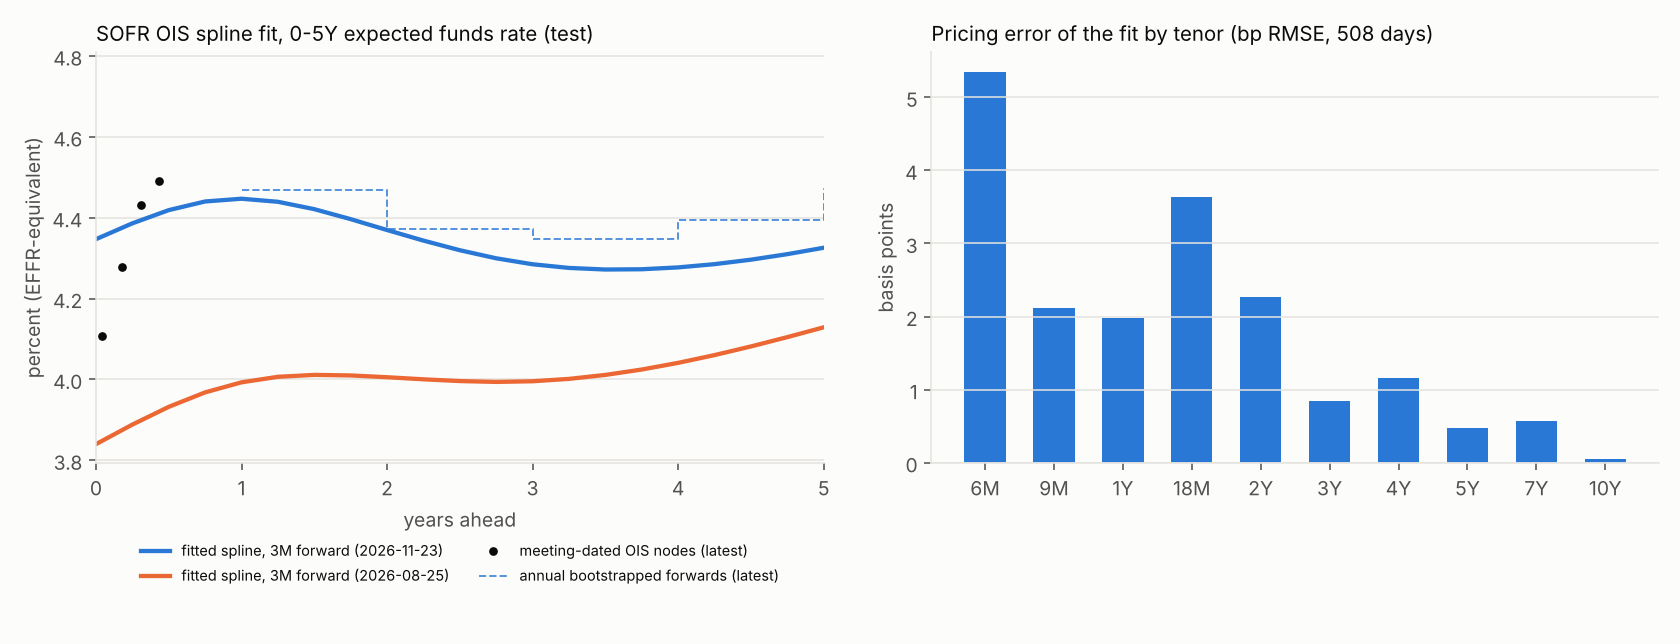
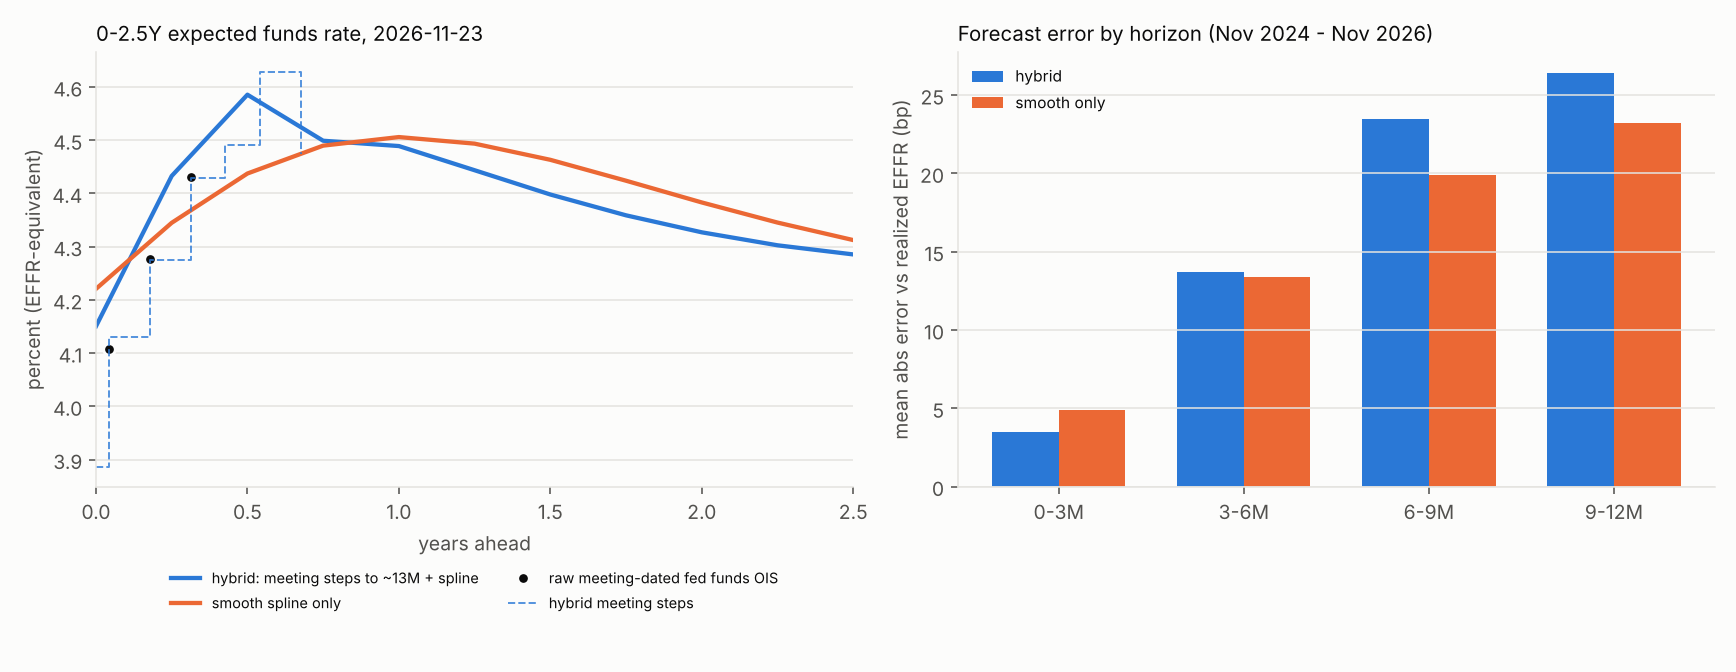
Fit hybrid meeting-step + spline curve using near-term swaps
Adds 1M/3M par tenors and a hybrid model: one step level per FOMC meeting for
~13 months fit to meeting-dated OIS, spot par swaps and published EFFR, joined
to the smooth spline. Reproduces meeting-dated OIS to ~1bp; compared to
spline-only it helps 0-3M but not 6-12M versus realized EFFR.

Claude-Session: https://claude.ai/code/session_0188nQGZ4YD7DmkHT2cWEdz3

diff --git a/scripts/08_fit_dtcc_ois_spline.py b/scripts/08_fit_dtcc_ois_spline.py
@@ -1,5 +1,5 @@
 """
-Fit a smooth SOFR OIS forward curve (penalized cubic B-spline) to the daily
+Fit a forward curve (meeting steps near term + penalized cubic B-spline beyond) to the daily
 spot-starting SOFR OIS par rates built by 07_build_dtcc_ois_curves.py.
 
 Why: the par swaps are deep from 6M to 10Y, but the forward rates implied by
@@ -35,7 +35,7 @@ import pandas as pd
 from scipy.interpolate import BSpline
 from scipy.optimize import least_squares
 
-TENOR_YRS = {"6M": 0.5, "9M": 0.75, "1Y": 1, "18M": 1.5, "2Y": 2, "3Y": 3, "4Y": 4,
+TENOR_YRS = {"1M": 1 / 12, "3M": 0.25, "6M": 0.5, "9M": 0.75, "1Y": 1, "18M": 1.5, "2Y": 2, "3Y": 3, "4Y": 4,
              "5Y": 5, "7Y": 7, "10Y": 10}
 DELTA = 365 / 360
 TMAX = 10.0
@@ -156,7 +156,7 @@ def curve_table(coefs, basis_by_date, max_h):
         for h in np.arange(0, max_h + 1e-9, 0.25):
             i, j = BASIS.idx(h), BASIS.idx(h + 0.25)
             f3 = (D[i] / D[j] - 1) / (DELTA * 0.25) * 100
-            rows.append({"date": d, "horizon_yrs": round(h, 2), "inst_fwd_pct": f[i] * 100,
+            rows.append({"date": d, "horizon_yrs": round(h, 2), "inst_fwd_pct": float(360 * np.expm1(f[i] / 365) * 100),
                          "fwd3m_sofr_pct": f3, "fwd3m_effr_equiv_pct": f3 - b})
     return pd.DataFrame(rows)
 
@@ -242,14 +242,285 @@ def report(par, coefs, diag, data_dir, lam):
         print(f"  lam={lam2:g}: RMSE {dg.rmse_bp.mean():.2f} | diff vs chosen {dif}")
 
 
+# --------------------------------------------------------------------------
+# Hybrid model: step function (one level per FOMC meeting) for the first
+# ~13 months, joined to the smooth spline beyond. Fits meeting-dated swaps,
+# spot-starting par swaps (1M-10Y) and the published EFFR together.
+# --------------------------------------------------------------------------
+HDAYS = 3650               # daily grid out to 10Y
+TCUT = 400                 # days: steps before, spline from here on
+SPL_INTERIOR = [1.5, 2, 3, 4, 5, 6, 8]
+SPL_LO = 1.0
+
+
+class HBasis:
+    def __init__(self):
+        t = np.concatenate([[SPL_LO] * (DEGREE + 1), SPL_INTERIOR, [TMAX] * (DEGREE + 1)])
+        self.n = len(t) - DEGREE - 1
+        eye = np.eye(self.n)
+        yrs = (np.arange(HDAYS) + 0.5) / 365
+        self.B = np.nan_to_num(np.column_stack([
+            BSpline(t, eye[j], DEGREE, extrapolate=False)(yrs) for j in range(self.n)]))
+        pen_days = np.arange(TCUT, HDAYS, 10)
+        pyrs = (pen_days + 0.5) / 365
+        self.pen_days = pen_days
+        self.B2 = np.nan_to_num(np.column_stack([
+            BSpline(t, eye[j], DEGREE, extrapolate=False).derivative(2)(pyrs)
+            for j in range(self.n)]))
+        self.Bcut = self.B[TCUT - 1]   # spline value at the join
+
+
+HB = HBasis()
+
+
+def design(meet_off):
+    """Cumulative-integral design matrix CM (HDAYS+1 x p): F(day) = CM @ theta.
+    Columns: one step level per piece [edges[k], edges[k+1]) then spline coefs."""
+    edges = [0] + list(meet_off) + [TCUT]
+    K = len(edges) - 1
+    M = np.zeros((HDAYS, K + HB.n))
+    for k in range(K):
+        M[edges[k]:edges[k + 1], k] = 1.0
+    M[TCUT:, K:] = HB.B[TCUT:]
+    CM = np.vstack([np.zeros((1, M.shape[1])), np.cumsum(M, axis=0) / 365])
+    return CM, K
+
+
+def pay_days(T_days):
+    if T_days <= 365:
+        return [T_days]
+    ts = list(range(365, T_days - 1, 365))
+    if ts[-1] != T_days:
+        ts.append(T_days)
+    return ts
+
+
+def h_sigma(n, window):
+    n_eff = min(n, 25)
+    var = 1.0 + (6.0 / np.sqrt(n_eff)) ** 2 + (9.0 if window == "00:00-24:00" else 0.0)
+    return float(np.sqrt(var))
+
+
+def build_obs(date, par_g, fwd_g, basis, effr_val):
+    """Observation list in SOFR space. kinds: ('par', T_days, rate, sigma),
+    ('int', a_days, b_days, rate, sigma)."""
+    obs = []
+    for _, r in par_g.iterrows():
+        T = int(round(TENOR_YRS[r["tenor"]] * 365))
+        obs.append(("par", T, r["median"] / 100, h_sigma(r["n"], r["window"])))
+    for _, r in fwd_g.iterrows():
+        a = (r["start"] - date).days
+        b = (r["end"] - date).days
+        if a < 0 or b > HDAYS or b <= a:
+            continue
+        rate = r["median"] + (basis if r["product"] == "ffr" else 0.0)
+        obs.append(("int", a, b, rate / 100, h_sigma(r["n"], r["window"])))
+    if effr_val is not None and np.isfinite(effr_val) and np.isfinite(basis):
+        obs.append(("int", 0, 3, (effr_val + basis) / 100, 2.0))
+    return obs
+
+
+def model_obs(D, o):
+    if o[0] == "par":
+        T = o[1]
+        prev, ann = 0, 0.0
+        for t in pay_days(T):
+            ann += DELTA * (t - prev) / 365 * D[t]
+            prev = t
+        return (1 - D[T]) / ann
+    a, b = o[1], o[2]
+    return (D[a] / D[b] - 1) / (DELTA * (b - a) / 365)
+
+
+def fit_day_hybrid(date, obs, meet_off, lam, step_sigma_bp, theta0=None):
+    CM, K = design(meet_off)
+    sig = np.array([o[-1] for o in obs])
+    y = np.array([o[-2] for o in obs])
+    pen_w = np.sqrt(lam * 10 / 365) * 1e4 * 1e-1
+
+    def predict(th):
+        D = np.exp(-(CM @ th))
+        return np.array([model_obs(D, o) for o in obs])
+
+    def resid(th):
+        r = (predict(th) - y) * 1e4 / sig
+        steps = th[:K]
+        dstep = np.diff(steps) * 1e4 / step_sigma_bp
+        cont = np.array([(steps[-1] - HB.Bcut @ th[K:]) * 1e4 / 1.0])
+        pen = pen_w * (HB.B2 @ th[K:])
+        return np.concatenate([r, dstep, cont, pen])
+
+    th0 = np.full(K + HB.n, float(np.mean(y))) if theta0 is None else theta0
+    sol = least_squares(resid, th0, method="trf", x_scale=0.01)
+    res_bp = (predict(sol.x) - y) * 1e4
+    return sol.x, res_bp, CM, K
+
+
+def fit_all_hybrid(par, fwd, basis_by_date, effr, meetings, lam, step_sigma_bp,
+                   only_dates=None):
+    fwd = fwd[fwd["kind"] == "meeting"]
+    out, diag = {}, []
+    pg = {d: g for d, g in par[par["tenor"].isin(TENOR_YRS)].groupby("date")}
+    fg = {d: g for d, g in fwd.groupby("date")}
+    prev = None
+    for d in sorted(pg):
+        if only_dates is not None and d not in only_dates:
+            continue
+        g = pg[d]
+        have = set(g["tenor"])
+        if len(g) < 5 or not ({"5Y", "7Y"} & have) or "10Y" not in have:
+            continue
+        b = basis_by_date.get(d, np.nan)
+        if not np.isfinite(b):
+            continue
+        meet_off = [(m - d).days for m in meetings if 0 < (m - d).days < TCUT]
+        ev = effr.reindex(effr.index.union([d])).ffill().get(d, np.nan) if effr is not None else None
+        obs = build_obs(d, g, fg.get(d, fg_empty(fwd)), b, ev)
+        th0 = prev if prev is not None and len(prev) == len(meet_off) + 1 + HB.n else None
+        th, res, CM, K = fit_day_hybrid(d, obs, meet_off, lam, step_sigma_bp, th0)
+        prev = th
+        out[d] = (th, CM, K, meet_off, b)
+        kinds = [o[0] for o in obs]
+        pr = [r for r, k in zip(res, kinds) if k == "par"]
+        ir = [r for r, k in zip(res, kinds) if k == "int"]
+        diag.append({"date": d, "n_par": len(pr), "n_int": len(ir),
+                     "rmse_par_bp": float(np.sqrt(np.mean(np.square(pr)))) if pr else np.nan,
+                     "rmse_int_bp": float(np.sqrt(np.mean(np.square(ir)))) if ir else np.nan})
+    return out, pd.DataFrame(diag)
+
+
+def fg_empty(fwd):
+    return fwd.iloc[0:0]
+
+
+def h_interval(entry, a_days, b_days):
+    th, CM, K, _, basis = entry
+    D = np.exp(-(CM @ th))
+    return ((D[a_days] / D[b_days] - 1) / (DELTA * (b_days - a_days) / 365)) * 100 - basis
+
+
+def h_curve_table(fits, max_h):
+    rows = []
+    for d, entry in fits.items():
+        for h in np.arange(0, max_h + 1e-9, 0.25):
+            a, b = int(round(h * 365)), int(round((h + 0.25) * 365))
+            if b > HDAYS:
+                continue
+            rows.append({"date": d, "horizon_yrs": round(h, 2),
+                         "fwd3m_effr_equiv_pct": h_interval(entry, a, b)})
+    return pd.DataFrame(rows)
+
+
+def daily_act360(f):
+    """Continuously compounded rate (365-day year) -> one-day act/360 rate,
+    the quoting convention of EFFR/SOFR (decimal in, decimal out)."""
+    return 360 * np.expm1(np.asarray(f) / 365)
+
+
+def h_steps_table(fits):
+    rows = []
+    for d, (th, CM, K, meet_off, basis) in fits.items():
+        edges = [0] + list(meet_off)
+        for k in range(K):
+            rows.append({"date": d, "step": k, "from": d + pd.Timedelta(days=edges[k]),
+                         "level_effr_equiv_pct": daily_act360(th[k]) * 100 - basis})
+    return pd.DataFrame(rows)
+
+
+def load_inputs(dd):
+    par = pd.read_csv(dd / "dtcc_sofr_par_daily.csv", parse_dates=["date"])
+    fwd = pd.read_csv(dd / "dtcc_meeting_fwd_daily.csv", parse_dates=["date", "start", "end"])
+    path = pd.read_csv(dd / "dtcc_expected_path_daily.csv",
+                       parse_dates=["date", "node_start", "node_end"])
+    basis = path.dropna(subset=["basis"]).groupby("date")["basis"].first().to_dict()
+    meet = list(pd.read_csv(dd / "dtcc_meeting_calendar.csv",
+                            parse_dates=["meeting_date"])["meeting_date"])
+    e = pd.read_csv(dd / "fred_dff.csv")
+    e.columns = ["d", "v"]
+    e["d"] = pd.to_datetime(e["d"])
+    effr = pd.to_numeric(e["v"], errors="coerce").set_axis(e["d"]).dropna()
+    return par, fwd, path, basis, meet, effr
+
+
+def run_hybrid(args, dd):
+    par, fwd, path, basis, meet, effr = load_inputs(dd)
+    fits, diag = fit_all_hybrid(par, fwd, basis, effr, meet, args.lam, args.step_sigma)
+    if not fits:
+        raise SystemExit("no days could be fitted")
+    h_curve_table(fits, args.max_horizon).to_csv(dd / "dtcc_fitted_curve_daily.csv", index=False)
+    h_steps_table(fits).to_csv(dd / "dtcc_fitted_steps_daily.csv", index=False)
+    diag.to_csv(dd / "dtcc_fit_diagnostics_daily.csv", index=False)
+    print(f"hybrid fit: {len(fits)} days; median RMSE par {diag.rmse_par_bp.median():.2f}bp, "
+          f"meeting-dated {diag.rmse_int_bp.median():.2f}bp")
+    if args.report:
+        report_hybrid(par, fwd, path, basis, meet, effr, fits, diag, args)
+
+
+def report_hybrid(par, fwd, path, basis, meet, effr, fits, diag, args):
+    print("\n=== hybrid fit quality ===")
+    print("pricing error RMSE (bp): par median %.2f p90 %.2f | meeting-dated median %.2f p90 %.2f" % (
+        diag.rmse_par_bp.median(), diag.rmse_par_bp.quantile(.9),
+        diag.rmse_int_bp.median(), diag.rmse_int_bp.quantile(.9)))
+    # realized-EFFR test by horizon window, hybrid vs smooth-only vs raw fed funds OIS nodes
+    smooth, _ = fit_all(par, args.lam)
+    rows = []
+    wins = [(0, 91), (91, 182), (182, 273), (273, 365)]
+    for d, entry in fits.items():
+        for a, b in wins:
+            end = d + pd.Timedelta(days=b)
+            if end > effr.index.max():
+                continue
+            real = effr[(effr.index >= d + pd.Timedelta(days=a)) & (effr.index < end)].mean()
+            row = {"date": d, "win": f"{a//30}-{b//30}M",
+                   "hybrid": h_interval(entry, a, b) - real}
+            if d in smooth:
+                row["smooth"] = interval_rate(smooth[d], a / 365, b / 365) - basis.get(d, np.nan) - real
+            rows.append(row)
+    r = pd.DataFrame(rows)
+    # raw FF OIS meeting nodes: nearest-interval comparison not window aligned; skip
+    print("\nerror vs realized mean EFFR over the window (implied - realized, pct pts -> bp)")
+    g = r.groupby("win")[["hybrid", "smooth"]]
+    tab = pd.concat({"bias_bp": g.mean() * 100, "mae_bp": g.agg(lambda s: s.abs().mean()) * 100,
+                     "n": g.count()}, axis=1)
+    print(tab.round(1).to_string())
+    # in-sample agreement with raw meeting-dated FF OIS
+    m = path[(path["meeting_no"] >= 1) & (path["source"] == "ffr_ois")]
+    rows = []
+    for _, x in m.iterrows():
+        en = fits.get(x["date"])
+        if en is None:
+            continue
+        a, b = (x["node_start"] - x["date"]).days, (x["node_end"] - x["date"]).days
+        if a < 1 or b > HDAYS:
+            continue
+        rows.append({"h": a, "diff_bp": (h_interval(en, a, b) - x["ffr"]) * 100})
+    o = pd.DataFrame(rows)
+    o["bucket"] = pd.cut(o["h"], [0, 30, 91, 182, 400], labels=["<1M", "1-3M", "3-6M", "6-13M"])
+    print("\nhybrid minus raw meeting-dated fed funds OIS (bp, in sample):")
+    print(o.groupby("bucket", observed=True)["diff_bp"].agg(
+        n="size", mean="mean", mae=lambda s: s.abs().mean()).round(1).to_string())
+    # 12-month-ahead average and long-end stability
+    tab5 = h_curve_table(fits, 5).pivot(index="date", columns="horizon_yrs",
+                                        values="fwd3m_effr_equiv_pct")
+    print("\ndaily change sd of fitted 3M forward (bp):",
+          {h: round(float(tab5[h].diff().std() * 100), 1) for h in [0.25, 0.5, 1.0, 2.0, 3.0, 5.0] if h in tab5})
+
+
 def main():
     ap = argparse.ArgumentParser()
     ap.add_argument("--data-dir", default="../data")
     ap.add_argument("--lam", type=float, default=0.3, help="curvature penalty weight")
     ap.add_argument("--max-horizon", type=float, default=5.0)
+    ap.add_argument("--model", choices=["hybrid", "smooth"], default="hybrid",
+                    help="hybrid = meeting steps for ~13M then spline (default); "
+                         "smooth = spline only, no near-term meeting data")
+    ap.add_argument("--step-sigma", type=float, default=30.0,
+                    help="bp; prior sd of jumps between adjacent meeting steps")
     ap.add_argument("--report", action="store_true")
     args = ap.parse_args()
     dd = Path(args.data_dir)
+    if args.model == "hybrid":
+        return run_hybrid(args, dd)
 
     par = pd.read_csv(dd / "dtcc_sofr_par_daily.csv", parse_dates=["date"])
     coefs, diag = fit_all(par, args.lam)

diff --git a/scripts/07_build_dtcc_ois_curves.py b/scripts/07_build_dtcc_ois_curves.py
@@ -51,7 +51,7 @@ import pandas as pd
 WINDOWS = [("15:00", "17:00"), ("13:00", "17:00"), ("00:00", "24:00")]
 OFF_MARKET_BP_PAR = 15   # drop par-curve trades >15bp from the day/tenor median
 OFF_MARKET_BP_FWD = 15   # same for meeting-interval trades
-TENORS = {"6M": 0.5, "9M": 0.75, "1Y": 1, "18M": 1.5, "2Y": 2, "3Y": 3, "4Y": 4, "5Y": 5, "7Y": 7,
+TENORS = {"1M": 1 / 12, "3M": 0.25, "6M": 0.5, "9M": 0.75, "1Y": 1, "18M": 1.5, "2Y": 2, "3Y": 3, "4Y": 4, "5Y": 5, "7Y": 7,
           "10Y": 10, "15Y": 15, "20Y": 20, "30Y": 30}
 
 

diff --git a/README.md b/README.md
@@ -16,7 +16,7 @@ scripts/00_fetch_fred_corporate.py  FRED: DGS10/DGS20/DAAA/DBAA
 scripts/05_fetch_fred_dff.py        FRED: daily effective fed funds rate
 scripts/06_fetch_dtcc_ois.py        DTCC public swap tape: cache OIS trades (see DTCC section)
 scripts/07_build_dtcc_ois_curves.py OIS expected-rate paths + SOFR OIS par curve from that cache
-scripts/08_fit_dtcc_ois_spline.py   smooth (penalized B-spline) SOFR OIS forward curve to 5Y from the par curve
+scripts/08_fit_dtcc_ois_spline.py   fitted expected-funds-rate curve: meeting steps (~13M) + smooth spline
 scripts/01_load_full_sample.py      builds the full-history event panel + era classification
 scripts/02_production_estimates.py  IV-GMM pass-through estimates (equity, corporate)
 scripts/03_build_dashboard_data.py  assembles the dashboard JSON payload
@@ -47,15 +47,20 @@ annual SOFR OIS forwards from 1Y to 10Y), `dtcc_expected_path_daily.csv`
 `python3 07_build_dtcc_ois_curves.py --report` prints coverage, package-vs-
 outright, forecast-error-vs-realized-EFFR and SOFR-OIS-vs-Treasury diagnostics.
 
-**Spline fit (`08_fit_dtcc_ois_spline.py`):** fits a smooth instantaneous
-forward curve to the 6M-10Y SOFR OIS par rates (repricing them; median error
-~2bp) and writes quarterly 3M forwards 0-5Y to `dtcc_fitted_curve_daily.csv`.
-It is deliberately smooth, so it does not follow meeting-by-meeting steps in
-the first ~6 months -- intended to pair with a near-term step path (e.g. CME
-fed funds futures) and to supply the 1-5Y horizon. Against meeting-dated fed
-funds OIS (not used in the fit) it differs by ~5-10bp (mean |diff|); the
-penalty weight `--lam` is a judgment (x10 stiffer moves 3-5Y forwards by ~4-9bp).
-`--report` prints these diagnostics.
+**Curve fit (`08_fit_dtcc_ois_spline.py`):** by default a *hybrid* forward
+curve: a step function with one level per FOMC meeting for the first ~13 months
+(fit to meeting-dated fed funds / SOFR OIS, spot-starting 1M-10Y SOFR OIS par
+swaps and the published EFFR), joined to a smooth penalized cubic spline out to
+10Y. `--model smooth` fits the spline only (6M-10Y par). Outputs:
+`dtcc_fitted_curve_daily.csv` (quarterly 3M forwards 0-5Y, EFFR-equivalent),
+`dtcc_fitted_steps_daily.csv` (post-meeting levels), `dtcc_fit_diagnostics_daily.csv`.
+Findings (`--report`): the hybrid reproduces raw meeting-dated fed funds OIS to
+~1bp (par ~0.8bp) and improves the 0-3M window vs realized EFFR (3.5bp vs 4.9bp
+MAE), but is no better than smooth-only at 6-12M (MAE ~24-26bp vs ~20-23bp) --
+curve fidelity there is not forecast skill, and the 6M/9M par closes are mostly
+all-day (stale) fallbacks. Treat months ~6-12 as the least reliable stretch; the
+spline penalty `--lam` and jump prior `--step-sigma` are judgments (results are
+insensitive to `--step-sigma` 10-100bp).
 
 Testing-grade caveats: the combined curve has no node for roughly months 6-12
 (meeting nodes thin out; the annual forwards start at 1Y); SOFR OIS is
